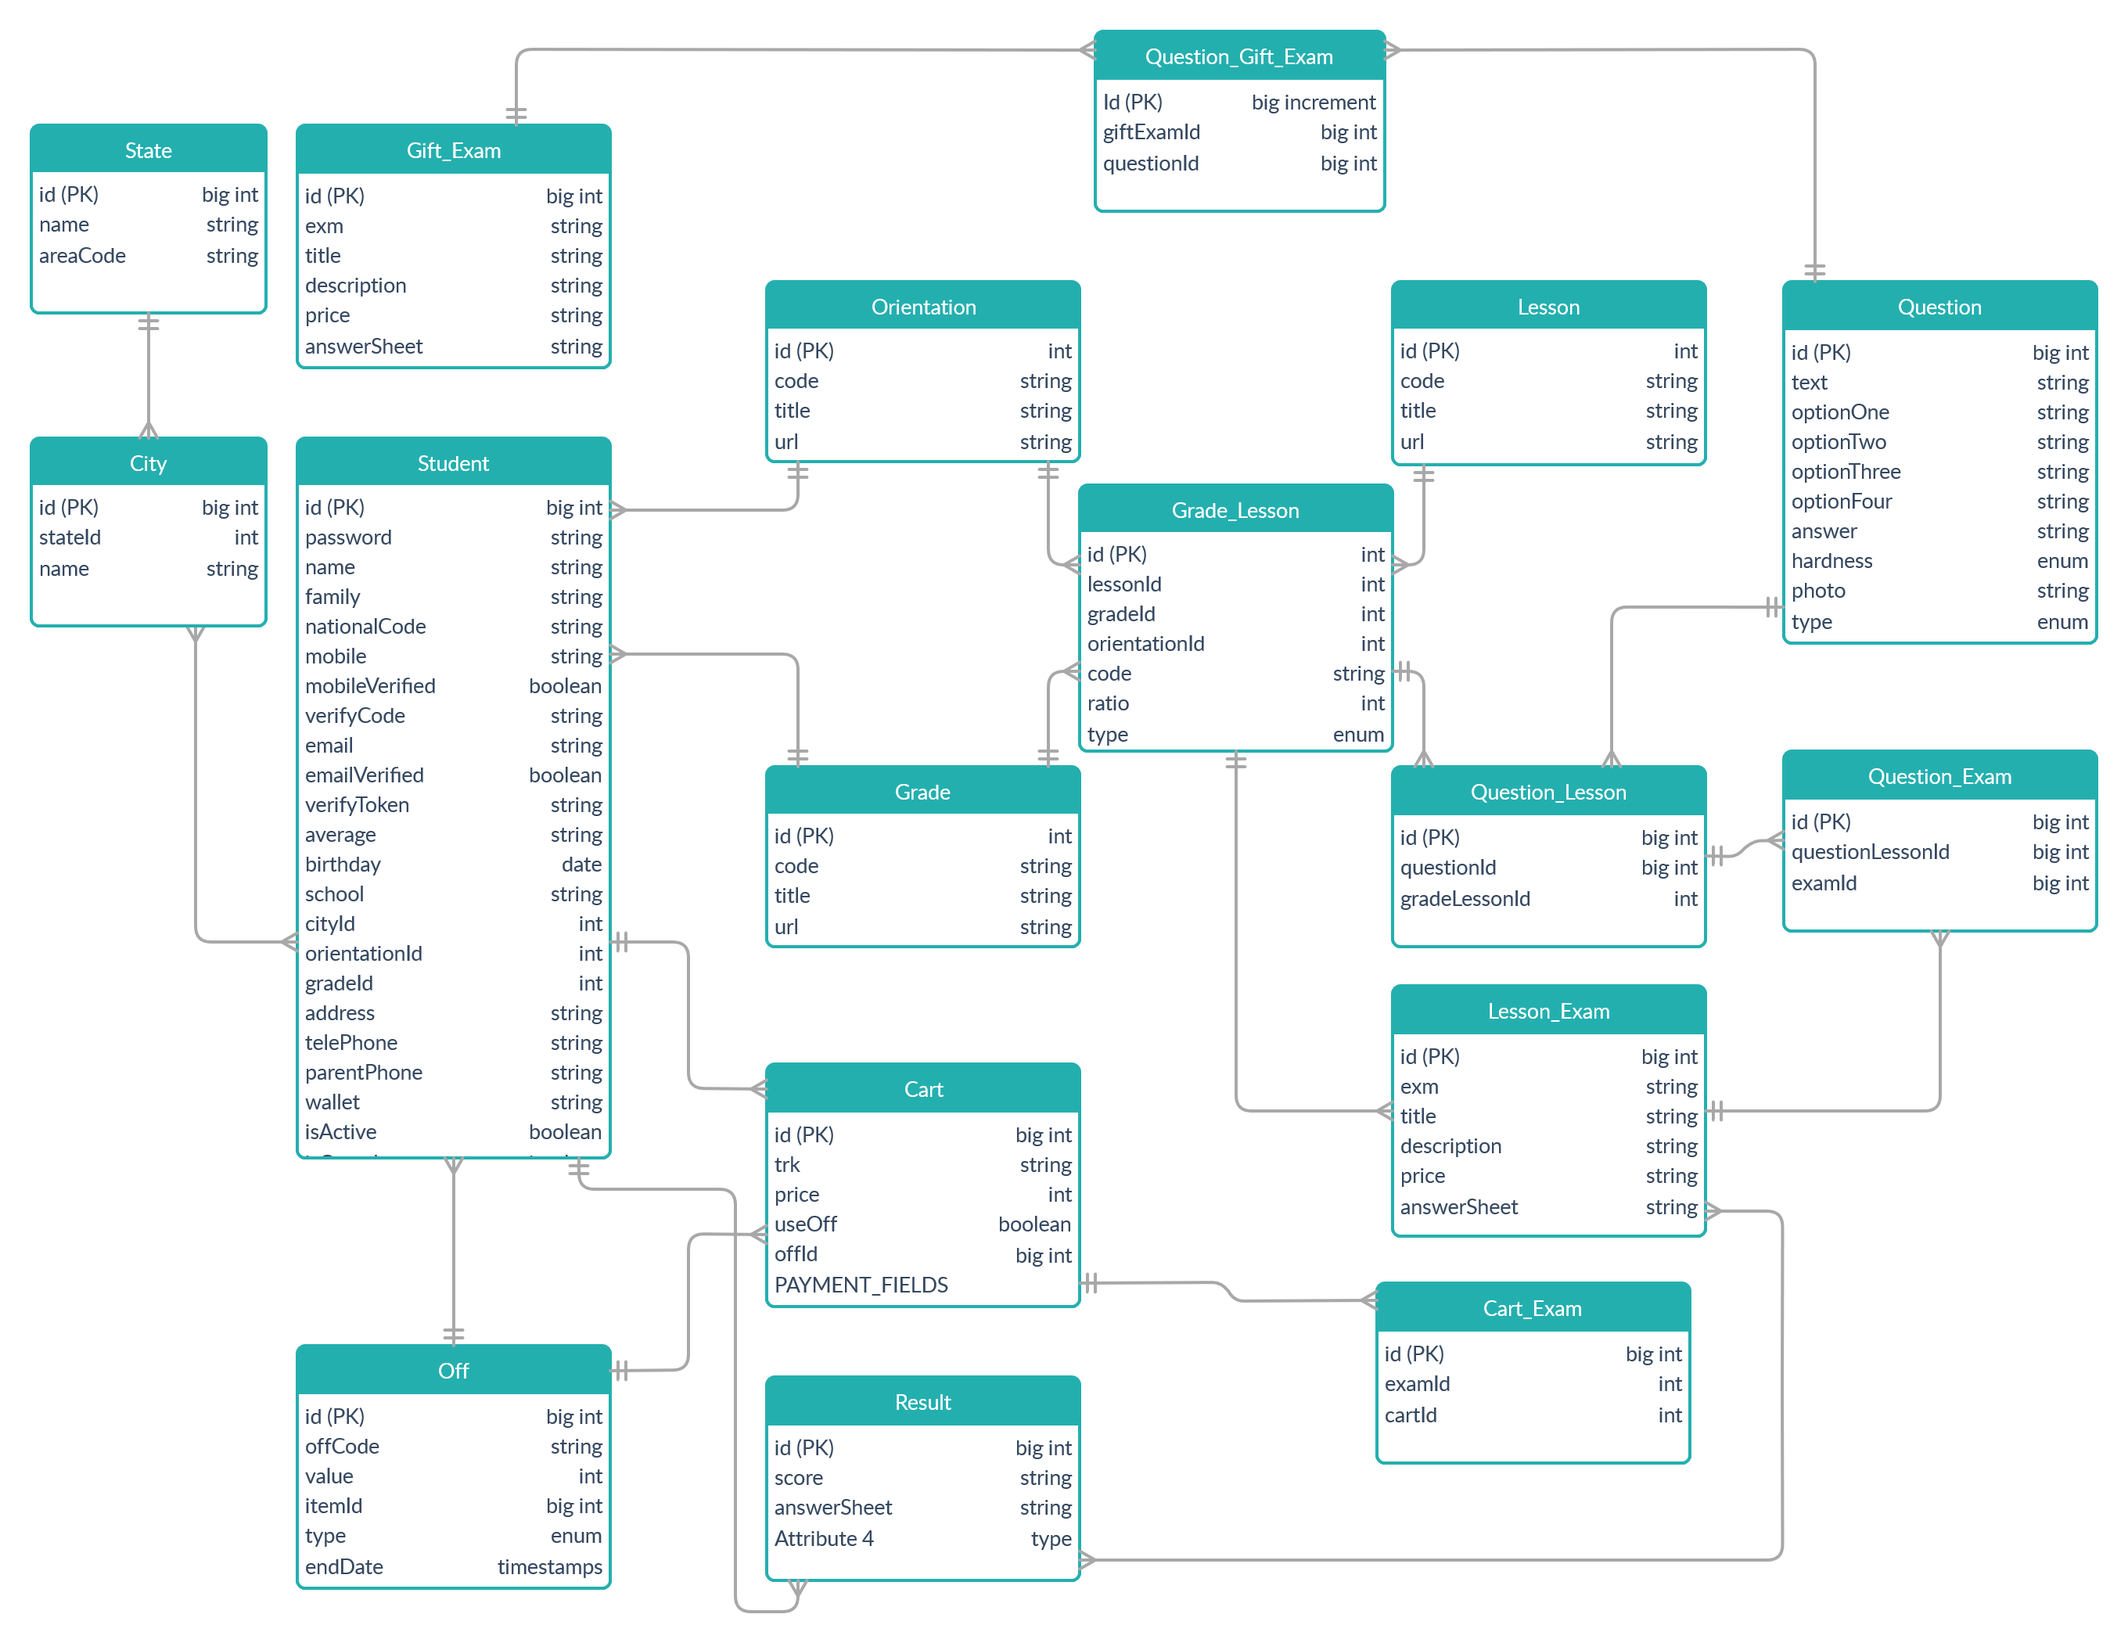
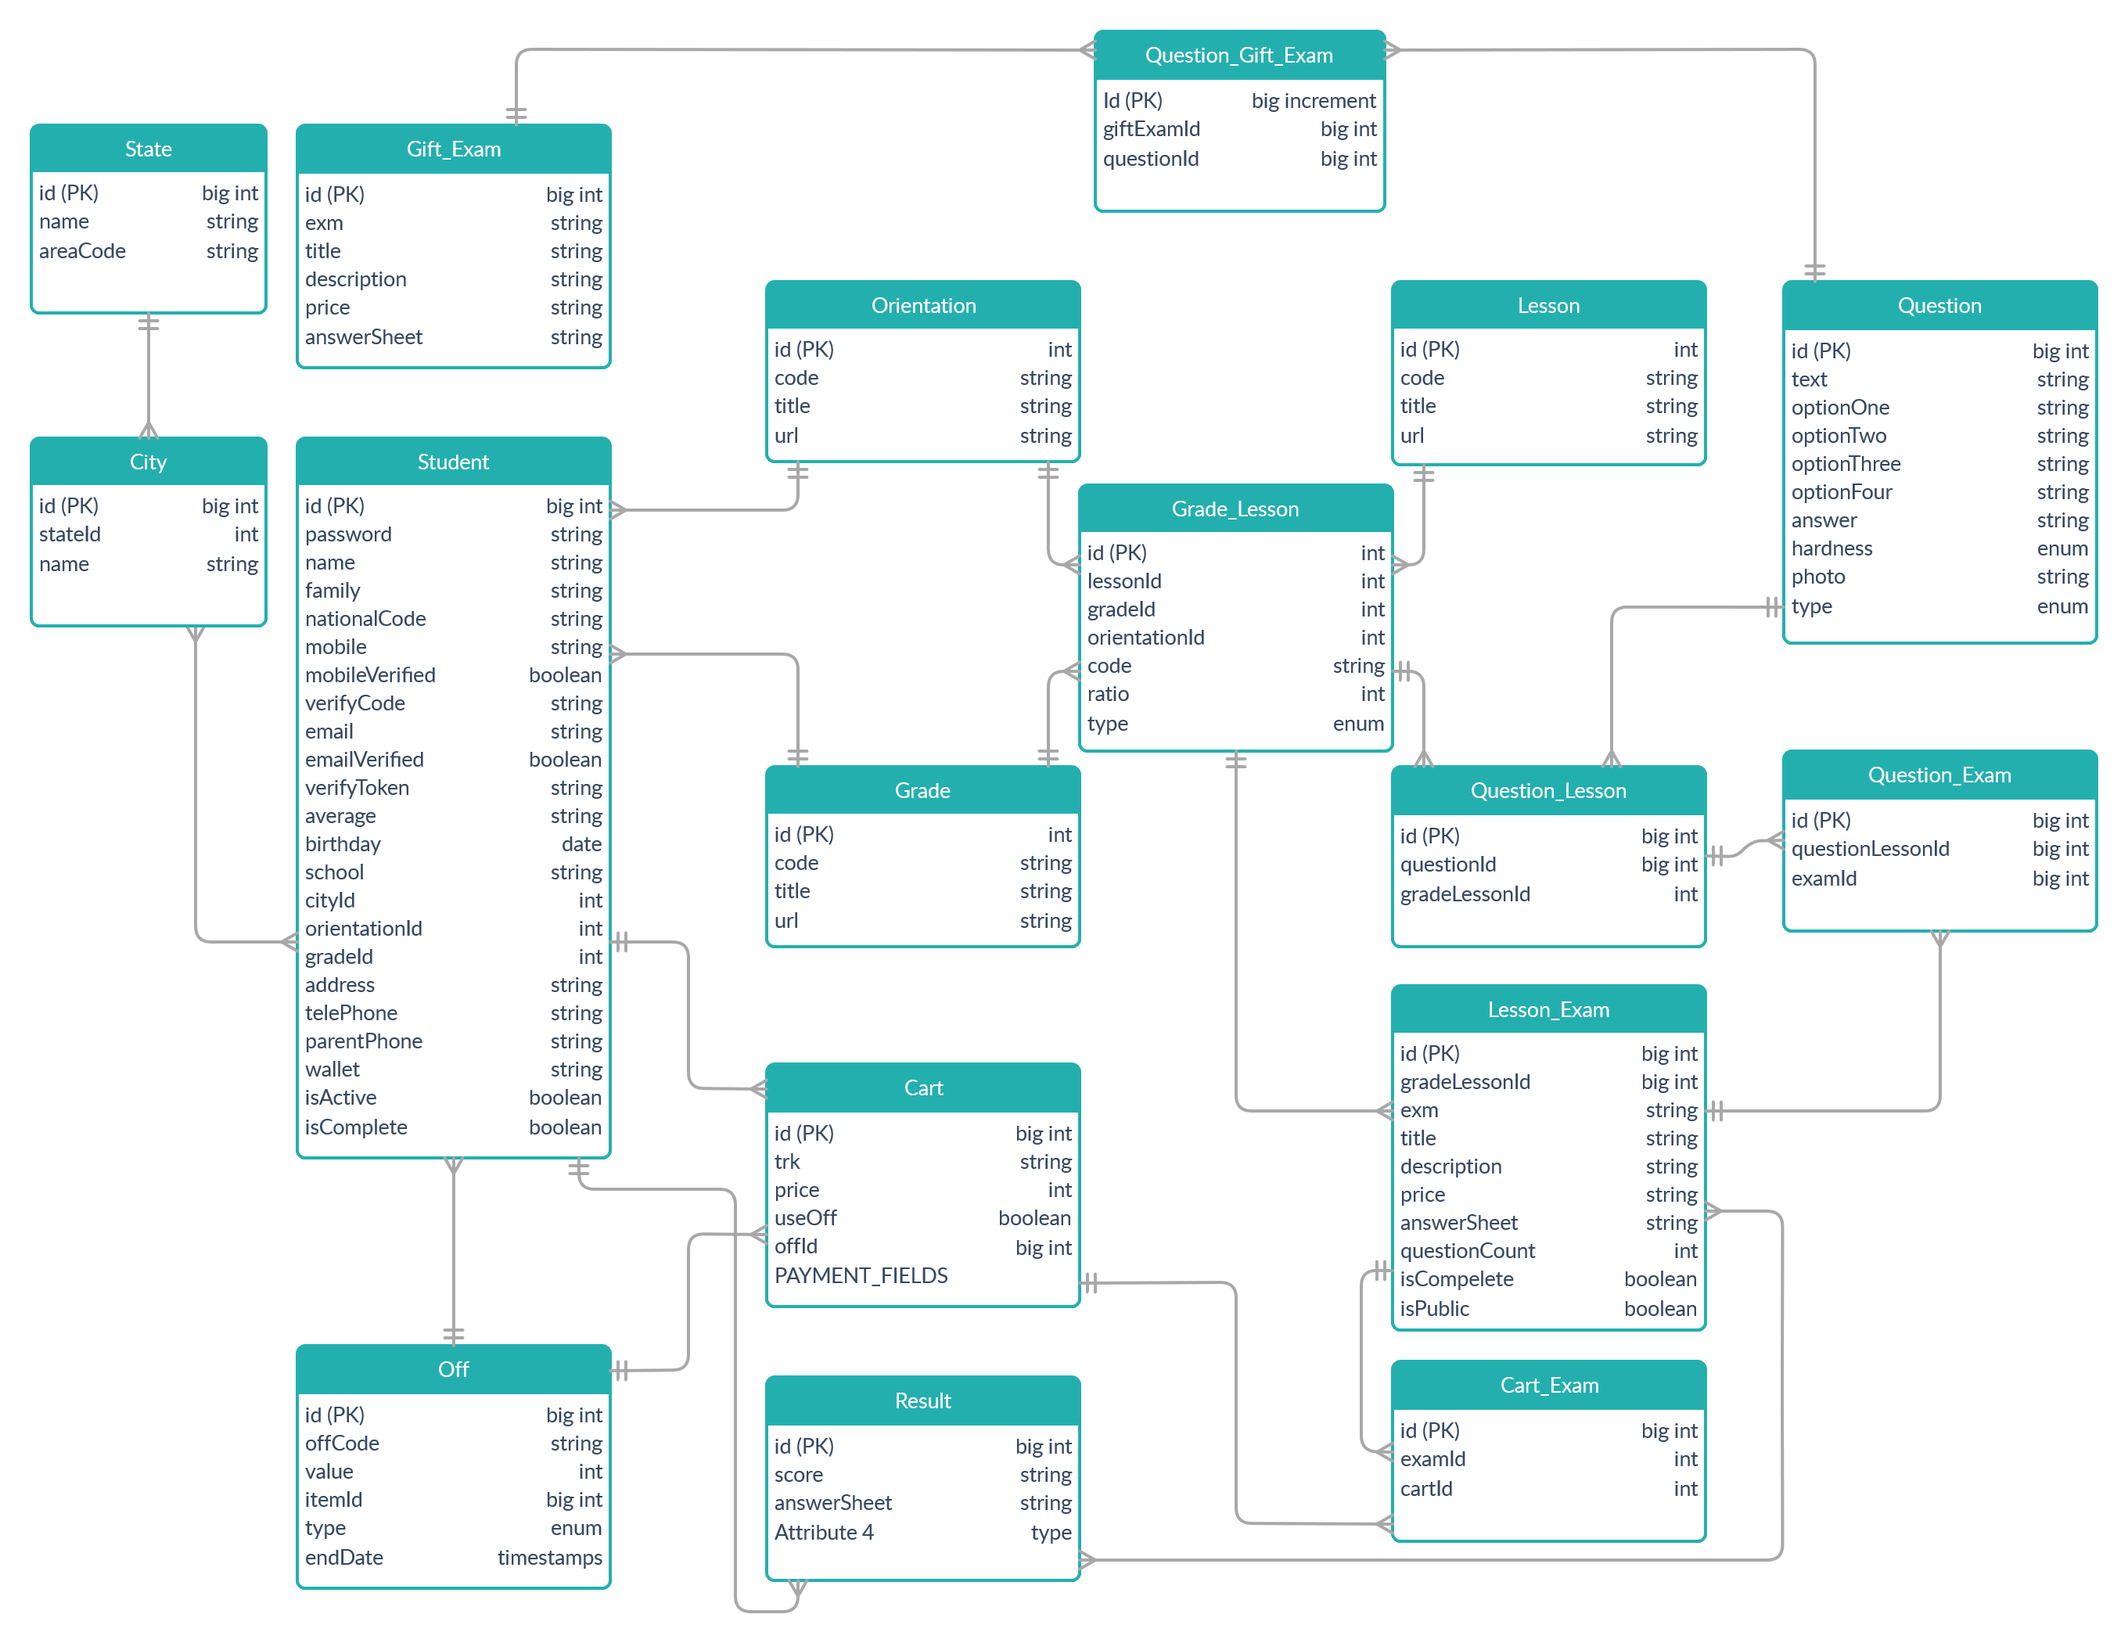
start creating lesson-exam

diff --git a/resources/views/admin/dashboard/lessonExam/form.blade.php b/resources/views/admin/dashboard/lessonExam/form.blade.php
@@ -1,0 +1,111 @@
+@extends('layouts.admin_dashboard')
+
+@section('content')
+
+	<div class="row">
+		<div class="col-md-12">
+			<div class="card text-right">
+				<div class="header ">
+					<h4 class="title">افزودن آزمون درس به درس</h4>
+				</div>
+
+				@if ($errors->any())
+					<div class="alert alert-danger">
+						<ul>
+							@foreach ($errors->all() as $error)
+								<li>{{ $error }}</li>
+							@endforeach
+						</ul>
+					</div>
+				@endif
+
+				<div class="content">
+					<form method="post" action="{{route('admin_lExam_add')}}" enctype="multipart/form-data">
+
+						{{csrf_field()}}
+
+						<div class="row">
+							<div class="col-md-4">
+								<div class="form-group">
+									<label>گرایش آزمون</label>
+									<select dir="rtl" name="orientationUrl" class="form-control" required>
+										<option selected disabled>گرایش درس را انتخاب نمایید</option>
+										@foreach ( $orientations as $orientation )
+											<option value="{{ $orientation->url }}" {{ $orientation->url == $orientation->url? 'selected' : '' }}>{{ $orientation->title }}</option>
+										@endforeach
+									</select>
+								</div>
+							</div>
+							<div class="col-md-4">
+								<div class="form-group">
+									<label>مقطع آزمون</label>
+									<select dir="rtl" name="gradeUrl" class="form-control" required>
+										<option selected disabled>گرایش درس را انتخاب نمایید</option>
+										@foreach ( $grades as $grade )
+											<option value="{{ $grade->url }}" {{ $grade->url == $grade->url? 'selected' : '' }}>{{ $grade->title }}</option>
+										@endforeach
+									</select>
+								</div>
+							</div>
+							<div class="col-md-4">
+								<div class="form-group">
+									<label>درس مربوط به آزمون</label>
+									<select dir="rtl" name="lessonUrl" class="form-control" required>
+										<option selected disabled>گرایش درس را انتخاب نمایید</option>
+										@foreach ( $lessons as $lesson )
+											<option value="{{ $lesson->url }}" {{ $lesson->url == $lesson->url? 'selected' : '' }}>{{ $lesson->title }}</option>
+										@endforeach
+									</select>
+								</div>
+							</div>
+						</div>
+
+
+						<div class="row">
+							<div class="col-md-6">
+								<div class="form-group">
+									<label>قیمت ( به ریال)</label>
+									<input name="price" dir="rtl" type="text" class="form-control"
+										   placeholder="مثلا: 50000">
+								</div>
+							</div>
+							<div class="col-md-6">
+								<div class="form-group">
+									<label>عنوان آرمون</label>
+									<input name="title" dir="rtl" type="text" class="form-control"
+										   placeholder="مثلا: درس فیزیکدوم دبیرستان، فصل اول">
+								</div>
+							</div>
+						</div>
+
+						<div class="row">
+							<div class="col-md-12">
+								<div class="form-group">
+									<label>توضیحات</label>
+									<textarea name="description" dir="rtl" rows="5" class="form-control"
+											  placeholder="مثلا بگو که این آزمون مناسب چه کسایی هستش، برای مرور درس خوبه یا برای شب امتحان یا برای کنکور و ...."></textarea>
+								</div>
+							</div>
+						</div>
+
+						<div class="row">
+							<div class="col-md-12">
+								<div class="form-group">
+									<label>پاسخنامه</label>
+									<input name="answerSheet" dir="rtl" type="file" class="form-control">
+								</div>
+							</div>
+						</div>
+
+
+						<button type="submit" class="btn btn-info btn-fill pull-right">مرحله بعد</button>
+						<div class="clearfix"></div>
+					</form>
+				</div>
+			</div>
+		</div>
+
+
+	</div>
+
+@endsection

diff --git a/resources/views/admin/dashboard/exams.blade.php b/resources/views/admin/dashboard/exams.blade.php
@@ -1,0 +1,93 @@
+@extends('layouts.admin_dashboard')
+
+@section('content')
+
+	<div class="row">
+
+		<div class="col-md-4">
+			<a href="{{route('admin_ltl_exams')}}">
+				<div class="card">
+					<div class="header">
+						<h4 class="title">آزمون های درس به درس</h4>
+						<p class="category">یه توضیح کوتاه</p>
+					</div>
+					<div class="content">
+						<div id="chartPreferences" class="ct-chart ct-perfect-fourth"></div>
+
+						<div class="footer">
+							<div class="legend">
+								<i class="fa fa-circle text-info"></i> Open
+								<i class="fa fa-circle text-danger"></i> Bounce
+								<i class="fa fa-circle text-warning"></i> Unsubscribe
+							</div>
+							<hr>
+							<div class="stats">
+								<i class="fa fa-clock-o"></i> Campaign sent 2 days ago
+							</div>
+						</div>
+					</div>
+				</div>
+			</a>
+		</div>
+
+
+		<div class="col-md-4">
+			<div class="card">
+
+				<div class="header">
+					<h4 class="title">Email Statistics</h4>
+					<p class="category">Last Campaign Performance</p>
+				</div>
+				<div class="content">
+					<div id="chartPreferences" class="ct-chart ct-perfect-fourth"></div>
+
+					<div class="footer">
+						<div class="legend">
+							<i class="fa fa-circle text-info"></i> Open
+							<i class="fa fa-circle text-danger"></i> Bounce
+							<i class="fa fa-circle text-warning"></i> Unsubscribe
+						</div>
+						<hr>
+						<div class="stats">
+							<i class="fa fa-clock-o"></i> Campaign sent 2 days ago
+						</div>
+					</div>
+				</div>
+			</div>
+		</div>
+
+
+		<div class="col-md-4">
+			<div class="card">
+
+				<div class="header">
+					<h4 class="title">Email Statistics</h4>
+					<p class="category">Last Campaign Performance</p>
+				</div>
+				<div class="content">
+					<div id="chartPreferences" class="ct-chart ct-perfect-fourth"></div>
+
+					<div class="footer">
+						<div class="legend">
+							<i class="fa fa-circle text-info"></i> Open
+							<i class="fa fa-circle text-danger"></i> Bounce
+							<i class="fa fa-circle text-warning"></i> Unsubscribe
+						</div>
+						<hr>
+						<div class="stats">
+							<i class="fa fa-clock-o"></i> Campaign sent 2 days ago
+						</div>
+					</div>
+				</div>
+			</div>
+		</div>
+
+	</div>
+
+@endsection
+
+@section('script')
+
+
+
+@endsection

diff --git a/app/Http/Controllers/Admin/Dashboard/LessonExamController.php b/app/Http/Controllers/Admin/Dashboard/LessonExamController.php
@@ -2,7 +2,10 @@
 
 namespace App\Http\Controllers\Admin\Dashboard;
 
+use App\model\Grade;
+use App\model\Lesson;
 use App\model\LessonExam;
+use App\model\Orientation;
 use Illuminate\Http\Request;
 use App\Http\Controllers\Controller;
 use Illuminate\Support\Facades\Storage;
@@ -16,14 +19,18 @@ class LessonExamController extends Controller
 	{
 		$lessonExam = LessonExam::all();
 
-		return view('admin.dashboard.lessonExam.exams',compact('lessonExam'));
+		return view('admin.dashboard.lessonExam.exams', compact('lessonExam'));
 	}
 
 
 
 	public function addShow()
 	{
-		return view('admin.dashboard.lessonExam.add');
+		$lessons      = Lesson::all();
+		$grades       = Grade::all();
+		$orientations = Orientation::all();
+
+		return view('admin.dashboard.lessonExam.form', compact('lessons', 'grades', 'orientations'));
 	}
 
 
@@ -32,6 +39,20 @@ class LessonExamController extends Controller
 	{
 		//validate here
 
+
+		$this->validate($request, [
+
+			'lessonUrl'      => 'required|exists:lesson,url',
+			'gradeUrl'       => 'required|exists:grade,url',
+			'orientationUrl' => 'required|exists:orientation,url',
+			'title'          => 'required|string|between:5,20',
+
+		]);
+
+
+		$lesson      = Lesson::query()->where('url', $request->input('lessonUrl'))->first();
+		$grade       = Grade::query()->where('url', $request->input('gradeUrl'))->first();
+		$orientation = Orientation::query()->where('url', $request->input('orientationUrl'))->first();
 
 		//after validate
 
@@ -56,8 +77,8 @@ class LessonExamController extends Controller
 
 	public function remove($exm)
 	{
-		$exam = LessonExam::query()->where('exm',$exm)->first();
+		$exam = LessonExam::query()->where('exm', $exm)->first();
 
-		return response()->json(['success'=>'Data is successfully added']);
+		return response()->json(['success' => 'Data is successfully added']);
 	}
 }

diff --git a/routes/web.php b/routes/web.php
@@ -52,19 +52,26 @@ Route::namespace('Admin')->group(function()
 
 		Route::prefix('admins')->group(function()
 		{
-			Route::get('/','RegisterController@admins')->name('admin_admins');
-			Route::get('/add','RegisterController@addShow')->name('admin_admins_addShow');
-			Route::post('/add','RegisterController@add')->name('admin_admins_add');
-			Route::get('/edit/{username}','RegisterController@editShow')->name('admin_admins_editShow');
-			Route::post('/edit/{username}','RegisterController@edit')->name('admin_admins_edit');
+			Route::get('/', 'RegisterController@admins')->name('admin_admins');
+			Route::get('/add', 'RegisterController@addShow')->name('admin_admins_addShow');
+			Route::post('/add', 'RegisterController@add')->name('admin_admins_add');
+			Route::get('/edit/{username}', 'RegisterController@editShow')->name('admin_admins_editShow');
+			Route::post('/edit/{username}', 'RegisterController@edit')->name('admin_admins_edit');
 		});
 
 		Route::prefix('exams')->group(function()
 		{
-			Route::get('/', 'LessonExamController@exams')->name('admin_exams');
-			Route::get('/add', 'LessonExamController@addShow')->name('admin_exams_addShow');
-			Route::post('/add', 'LessonExamController@add')->name('admin_lExam_add');
-			Route::post('/remove', 'LessonExamController@remove')->name('admin_lExam_remove');
+			Route::get('/', 'DashboardController@exams')->name('admin_exams');
+
+			Route::prefix('/lessonToLesson')->group(function()
+			{
+				Route::get('/', 'LessonExamController@exams')->name('admin_ltl_exams');
+				Route::get('/add', 'LessonExamController@addShow')->name('admin_ltlExams_addShow');
+				Route::post('/add', 'LessonExamController@add')->name('admin_lExam_add');
+				Route::post('/remove', 'LessonExamController@remove')->name('admin_lExam_remove');
+			});
+
+
 
 		});
 

diff --git a/resources/views/admin/dashboard/lessonExam/exams.blade.php b/resources/views/admin/dashboard/lessonExam/exams.blade.php
@@ -8,28 +8,33 @@
 				<div class="header">
 					<h4 class="title text-right">عنوان جدول</h4>
 					<p class="category text-right">زیرنویس جدول</p>
+					<a href="{{route('admin_ltlExams_addShow')}}" style="font-size: 12px;" class="btn btn-info">
+						افزودن آزمون جدید
+					</a>
 				</div>
 				<div dir="rtl" class="content table-responsive table-full-width">
 					<table class="table table-hover table-striped">
 						<thead class="text-right">
-						<th>کدآزمون</th>
-						<th>عنوان آزمون</th>
-						<th>قیمت</th>
+						<th>کدمقطع</th>
+						<th>عنوان مقطع</th>
+						<th>قیمت مقطع</th>
+						<th>پاسخ برگ</th>
 						<th>فرآیند</th>
 						</thead>
 						<tbody class="text-center">
 						@foreach($lessonExam as $exam)
 							<tr>
-								<td>{{$exam->exm}}</td>
+								<td>{{$exam->code}}</td>
 								<td>{{$exam->title}}</td>
 								<td>{{$exam->price/10 . ' تومان '}}</td>
+								<td>{{$exam->answerSheet ? 'دارد' : 'ندارد'}}</td>
 								<td>
 
-									<button onclick="onRemoveClick('{{$exam->exm}}');" id="remove-btn" type="button"
+									<a href="{{route('admin_grades_remove',['url' => $exam->code])}}" id="remove-btn" type="button"
 											style="font-size: 12px;" class="btn btn-danger">
 										حذف
-									</button>
-									<a href="#" style="font-size: 12px;" class="btn btn-info">
+									</a>
+									<a href="{{route('admin_grades_editShow',['url' => $exam->code])}}" style="font-size: 12px;" class="btn btn-info">
 										ویرایش
 									</a>
 

diff --git a/database/migrations/2019_08_10_132304_create_lesson_exam_table.php b/database/migrations/2019_08_10_132304_create_lesson_exam_table.php
@@ -17,10 +17,11 @@ class CreateLessonExamTable extends Migration
 		Schema::create('lesson_exam', function(Blueprint $table)
 		{
 			$table->bigIncrements('id');
+			$table->bigInteger('gradeLessonId');
 			$table->string('exm');
 			$table->string('title');
 			$table->string('description')->nullable();
-			$table->integer('price');
+			$table->integer('price')->default(0);
 			$table->string('answerSheet')->nullable();
 			$table->timestamps();
 			$table->softDeletes();

diff --git a/app/Http/Controllers/Admin/Dashboard/DashboardController.php b/app/Http/Controllers/Admin/Dashboard/DashboardController.php
@@ -17,4 +17,11 @@ class DashboardController extends Controller
 	}
 
 
+
+	public function exams()
+	{
+		return view('admin.dashboard.exams');
+	}
+
+
 }
